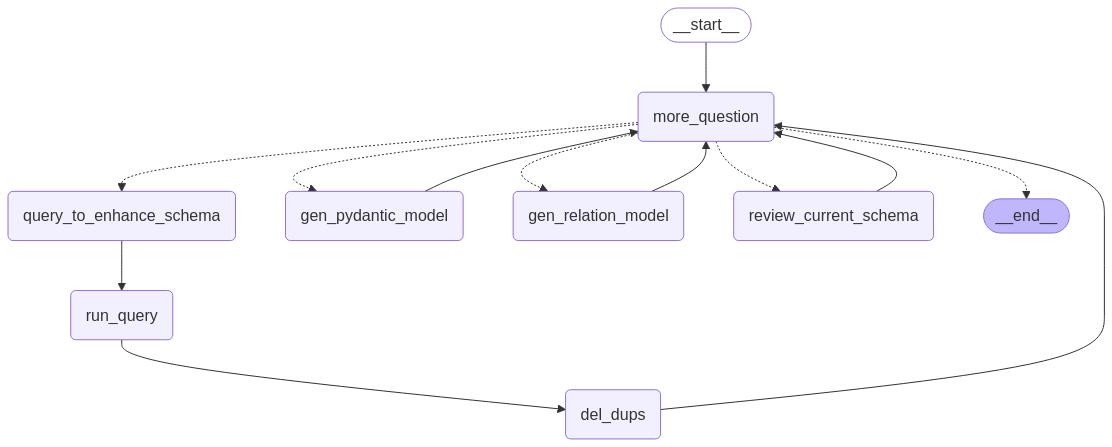
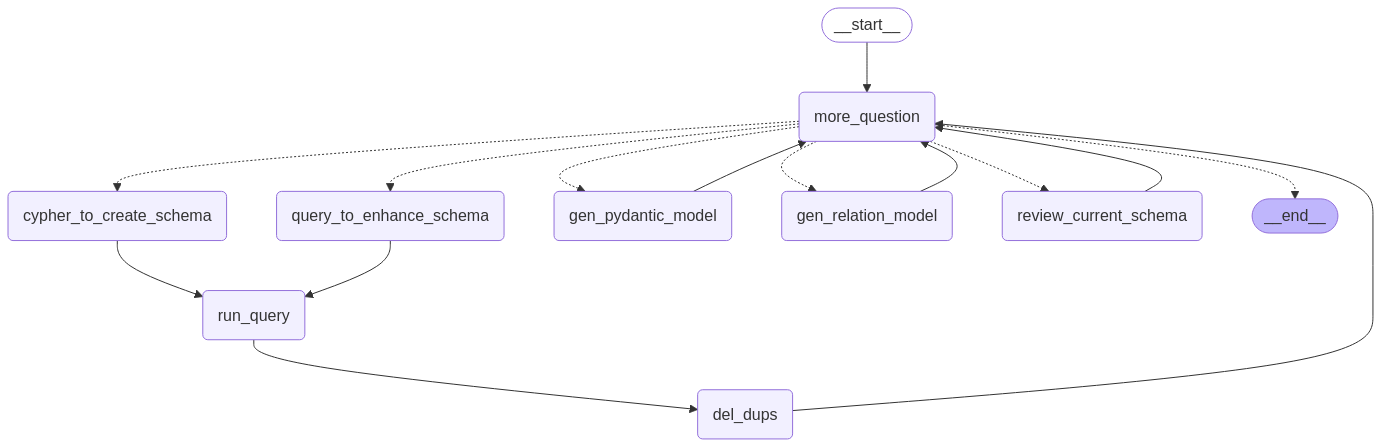
add create schema flow

diff --git a/models/gojs_graphobject.py b/models/gojs_graphobject.py
@@ -1,0 +1,135 @@
+from pydantic import BaseModel, Field
+from typing import Optional, Tuple, Union, List
+from abc import ABC
+
+
+class GraphObject(BaseModel, ABC):
+    """Abstract base class for all GraphObjects, defining common properties including sizing, visibility, transformations, and positioning."""
+
+    # Visibility properties
+    background: Optional[str] = None
+    visible: bool = True
+    opacity: float = Field(1.0, ge=0.0, le=1.0)
+    pickable: bool = True
+
+    # Sizing properties
+    desired_size: Optional[Tuple[float, float]] = None  # (width, height)
+    min_size: Optional[Tuple[float, float]] = None
+    max_size: Optional[Tuple[float, float]] = None
+    width: Optional[float] = None  # Convenience setter for desired_size[0]
+    height: Optional[float] = None  # Convenience setter for desired_size[1]
+
+    # Transformation properties
+    angle: float = 0.0  # Rotation in degrees
+    scale: float = 1.0  # Scaling factor
+
+    # Layout and stretching
+    stretch: Optional[str] = None  # Enum-like behavior for stretch (e.g., "fill", "uniform", etc.)
+
+    # Read-only computed bounds (set after measurement & arrangement)
+    natural_bounds: Optional[Tuple[float, float, float, float]] = None  # (x, y, width, height)
+    measured_bounds: Optional[Tuple[float, float, float, float]] = None
+    actual_bounds: Optional[Tuple[float, float, float, float]] = None
+
+    def is_visible_object(self) -> bool:
+        """Determine if the object is visible based on its own visibility and opacity."""
+        return self.visible and self.opacity > 0.0
+
+
+class Panel(GraphObject):
+    """A Panel manages the alignment, positioning, and layout of GraphObjects within it."""
+
+    # Alignment & Positioning properties
+    alignment: Optional[str] = None  # e.g., "TopLeft", "Center", "BottomRight"
+    alignment_focus: Optional[str] = None  # e.g., "Center", "BottomLeft"
+
+    # Grid/Table layout properties
+    column: Optional[int] = None
+    row: Optional[int] = None
+    column_span: Optional[int] = None
+    row_span: Optional[int] = None
+
+    # Panel-specific properties
+    is_panel_main: bool = False  # Indicates if this is the primary object in the panel
+    margin: Optional[Tuple[float, float, float, float]] = None  # (top, right, bottom, left)
+    position: Optional[Tuple[float, float]] = None  # (x, y) position within a Panel.Position panel
+
+
+class Part(Panel):
+    """A Part is a top-level object in the visual hierarchy, such as Nodes, Links, Groups, or Adornments."""
+
+    position: Tuple[float, float] = (0.0, 0.0)  # (x, y) in document coordinates
+    location: Optional[Tuple[float, float]] = None  # Optional alternative positioning method
+
+    # Read-only properties for visual tree navigation
+    panel: Optional[Panel] = None  # The Panel that directly contains this object
+    part: Optional["Part"] = None  # The parent Part that contains this object (if applicable)
+    layer: Optional[str] = None  # The Layer this Part belongs to
+    diagram: Optional[str] = None  # The Diagram this Part's Layer belongs to
+
+class Link(Part):
+    """A Link is a Part that connects two Nodes directionally and connects to specific ports."""
+
+    # Basic node connections
+    from_node: Optional[Part] = None  # The starting Node of the link
+    to_node: Optional[Part] = None  # The ending Node of the link
+    from_port_id: Optional[str] = None  # The port ID in the from_node where the link starts
+    to_port_id: Optional[str] = None  # The port ID in the to_node where the link ends
+
+    # Additional link connection properties
+    from_spot: Optional[str] = None  # Spot where the link exits from the "from" node
+    to_spot: Optional[str] = None  # Spot where the link enters the "to" node
+    from_end_segment_length: Optional[float] = None  # Length of the segment leaving from_node
+    to_end_segment_length: Optional[float] = None  # Length of the segment entering to_node
+    from_short_length: Optional[float] = None  # Shortening of the segment from the "from" node
+    to_short_length: Optional[float] = None  # Shortening of the segment towards the "to" node
+
+
+class Node(Part):
+    """A Node is a Part that may connect to other nodes via Links or belong to a Group."""
+    links_connected: List[Part] = None  # List of links connected to this node
+    group: Optional["Group"] = None  # The group this node belongs to
+
+
+class Group(Node):
+    """A Group is a Node that can contain other Nodes."""
+    members: List[Node] = None  # List of Nodes that belong to this Group
+
+
+
+
+
+class BalloonLink(Link):
+    pass
+
+
+class DimensioningLink(Link):
+    pass
+
+
+class FishboneLink(Link):
+    pass
+
+
+class ParallelRouteLink(Link):
+    pass
+
+
+class Adornment(Part):
+    pass
+
+
+class Shape(GraphObject):
+    pass
+
+
+class TextBlock(GraphObject):
+    pass
+
+
+class Picture(GraphObject):
+    pass
+
+
+class Placeholder(GraphObject):
+    pass

diff --git a/neo4j_onto2ai_toolset/schema_chatbot/onto2schema_langraph_model.py b/neo4j_onto2ai_toolset/schema_chatbot/onto2schema_langraph_model.py
@@ -74,8 +74,11 @@ def more_question(state: OverallState) -> OutputState:
         start_node: str = Field(
             description="class label or node label"
         )
-        action: Literal["review", "enhance"] = Field(
-            description="whether the question is related to review or enhance schema etc"
+        action: Literal["review", "enhance","create"] = Field(
+            description="whether the question is related to review, enhance or create schema etc"
+        )
+        based_on: str = Field(
+            description="based on what to create the schema?"
         )
 
     guard_of_entrance = """
@@ -111,6 +114,7 @@ def more_question(state: OverallState) -> OutputState:
         "next_action": output.decision,
         "start_node": output.start_node,
         "to_do_action": output.action,
+        "based_on": output.based_on,
         "database_records": db_records,
         "steps": ["more_question"],
     }
@@ -179,6 +183,53 @@ def generate_pydantic_class(state: OverallState, db: SemanticGraphDB, llm: ChatO
     )
     mylogger.info(generated_clz)
     return {"cypher_statement": generated_clz, "steps": ["generate_pydantic_class"]}
+
+def create_schema(state: OverallState, llm: ChatOpenAI) -> OverallState:
+    """
+    Generates a cypher statement based on the provided schema and user input
+    """
+    text2cypher_prompt = ChatPromptTemplate.from_messages(
+        [
+            (
+                "system",
+                (
+                    """
+                    Given an input, convert it to a Cypher query. No pre-amble.
+                    Do not wrap the response in any backticks or anything else. Respond with a Cypher statement only!
+                    """
+                ),
+            ),
+            (
+                "human",
+                (
+                    """
+                    Task: generate Cypher statements to add relationship, owl__Class, class hierarchy as owl__subClassOf, output each statement as one element of an array.
+                    Instruction: The node in the schema is a owl__Class with rdfs_label, 
+                    and the annotation properties are metadata for both node and relationship. Use real world knowledge to infer 
+                    generate Cypher statement to merge the node.
+                    match the nodes and generate Cypher statement to create relationship, if possible, add relationship property owl__minQualifiedCardinality.
+                    The new node or relationship should have uri with domain http://mydomain/ontology. 
+                    rdfs__label always be lower case, with space between words.
+                    relationship type is camel case with first character lower case.
+                    For each node and relationship, generate a skos__definition, which should not contain single quote character.
+                    match only with rdfs__label.
+                    {schema}
+                    Schema: get schema information from https://gojs.net/latest/api/symbols/Node.html
+                    Note: Add many relationships you can find, do not include any explanations or apologies in your responses.
+                    """
+                ),
+            ),
+        ]
+    )
+    mylogger.info(text2cypher_prompt)
+    text2cypher_chain = text2cypher_prompt | llm | StrOutputParser()
+    generated_cypher = text2cypher_chain.invoke(
+        {
+            "schema": state.get('based_on')
+        }
+    )
+
+    return {"cypher_statement": generated_cypher, "steps": ["create_schema"]}
 
 def generate_cypher(state: OverallState, db: SemanticGraphDB, llm: ChatOpenAI) -> OverallState:
     """

diff --git a/neo4j_onto2ai_toolset/prompts/onto2schema_template.py b/neo4j_onto2ai_toolset/prompts/onto2schema_template.py
@@ -33,7 +33,7 @@ No change to exist node. To reference existing node, the node type is :owl__Clas
 rdfs__label always be lower case, with space between words.
 relationship type is camel case with first character lower case.
 no new owl__ObjectProperty created.
-For each node and relationship, generate a skos__definition, no single quote like "'s" inside the skos__definition.
+For each node and relationship, generate a skos__definition, which should not contain single quote character.
 create the node if not exist.
 instead of merge node, check if exists, create the node only not exists, then match again.
 match only with rdfs__label.
@@ -50,8 +50,48 @@ match the nodes and generate Cypher statement to create relationship, if possibl
 The new node or relationship should have uri with domain http://mydomain/ontology. 
 rdfs__label always be lower case, with space between words.
 relationship type is camel case with first character lower case.
-For each node and relationship, generate a skos__definition, no single quote like "'s" inside the skos__definition.
+For each node and relationship, generate a skos__definition, which should not contain single quote character.
 match only with rdfs__label.
 Schema: {schema}
+Note: Add many relationships you can find, do not include any explanations or apologies in your responses.
+"""
+
+crt_schema_template = """
+Task: generate Cypher statements to create relationship, node as owl__Class, class hierarchy as owl__subClassOf, output each statement as single line element of an array.
+Instruction: The node in the schema is a owl__Class with rdfs_label, 
+and the annotation properties are metadata for both node and relationship. Use real world knowledge to infer 
+new relationship and generate Cypher statement to create the relationship, if possible, add relationship property owl__minQualifiedCardinality..
+The new node or relationship should have uri with domain http://mydomain/ontology.
+No change to exist node. To reference existing node, the node type is :owl__Class, the property rdfs__label is the one defined in annotation properties. 
+rdfs__label always be lower case, with space between words.
+relationship type is camel case with first character lower case.
+no new owl__ObjectProperty created.
+For each node and relationship, generate a skos__definition, which should not contain single quote character.
+create the node if not exist.
+instead of merge node, check if exists, create the node only not exists, then match again.
+match only with rdfs__label.
+
+
+Schema: {schema}
+(:GraphObject) is a node
+(:Part) is a node,  
+(:Node) is a node, A Node is a Part that may connect to other nodes with Links, or that may be a member of a Group.
+[:link] is a relationship
+(:Node)-[:link]->(:Node)
+(:Shape) is a node
+(:TextBlock) is a node
+(:Node)-[:contain]->[:Shape]
+(:Node)-[:contain]->[:TextBlock]
+(:Shape)-[:bind]->(:ModelData)
+(:TextBlock)-[:bind]->(:ModelData)
+
+
+Hierarchy: {hierarchy}
+(:Panel) is sub class of (:GraphObject)
+(:Shape) is sub class of (:GraphObject)
+(:TextBlock) is sub class of (:GraphObject)
+(:Picture) is sub class of (:GraphObject)
+(:Placeholder) is sub class of (:GraphObject)
+
 Note: Add many relationships you can find, do not include any explanations or apologies in your responses.
 """

diff --git a/neo4j_onto2ai_toolset/schema_chatbot/chatbot.py b/neo4j_onto2ai_toolset/schema_chatbot/chatbot.py
@@ -19,7 +19,9 @@ from neo4j_onto2ai_toolset.schema_chatbot.onto2schema_langraph_model import (
     generate_pydantic_class,
     generate_relational_db_ddl,
     execute_graph_query,
-    del_dup_cls_rels, review_schema)
+    del_dup_cls_rels,
+    review_schema,
+    create_schema)
 
 
 lg = StateGraph(OverallState, input=InputState, output=OutputState)
@@ -27,6 +29,11 @@ lg = StateGraph(OverallState, input=InputState, output=OutputState)
 db = SemanticGraphDB(neo4j_bolt_url,username,password,neo4j_db_name)
 # ask question
 lg.add_node(more_question)
+
+# create schema
+def cypher_to_create_schema(state: OverallState):
+    return create_schema(state=state,llm=llm)
+lg.add_node(cypher_to_create_schema)
 
 # extract exist schema and enhance it
 def query_to_enhance_schema(state: OverallState):
@@ -59,13 +66,21 @@ lg.add_node(review_current_schema)
 # edges
 def if_related_condition(
     state: OverallState,
-) -> Literal[END, "query_to_enhance_schema","review_current_schema","gen_pydantic_model","gen_relation_model"]:
+) -> Literal[
+    END,
+    "query_to_enhance_schema",
+    "review_current_schema",
+    "gen_pydantic_model",
+    "gen_relation_model",
+    "cypher_to_create_schema"]:
     if state.get("next_action") == "end":
         return END
     elif state.get("next_action") == "schema"  and state.get("to_do_action") == "enhance":
         return "query_to_enhance_schema"
     elif state.get("next_action") == "schema" and state.get("to_do_action") == "review":
         return "review_current_schema"
+    elif state.get("next_action") == "schema"  and state.get("to_do_action") == "create":
+        return "cypher_to_create_schema"
     elif state.get("next_action") == "pydantic-model":
         return "gen_pydantic_model"
     elif state.get("next_action") == "relation-model":
@@ -75,6 +90,7 @@ def if_related_condition(
 lg.add_edge(START,"more_question")
 # lg.add_edge("more_question","query_to_enhance_schema")
 lg.add_conditional_edges("more_question",if_related_condition)
+lg.add_edge("cypher_to_create_schema","run_query")
 lg.add_edge("query_to_enhance_schema","run_query")
 lg.add_edge("run_query","del_dups")
 lg.add_edge("del_dups","more_question")
